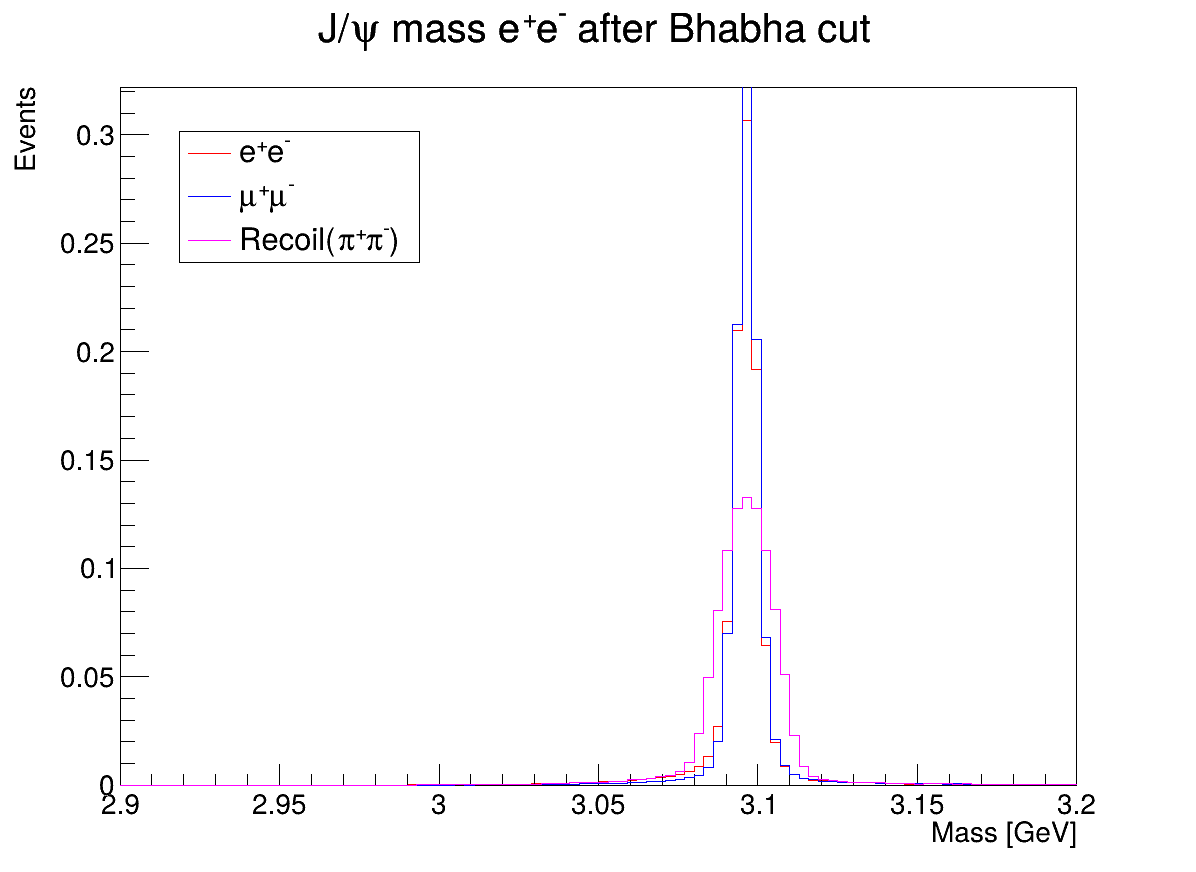
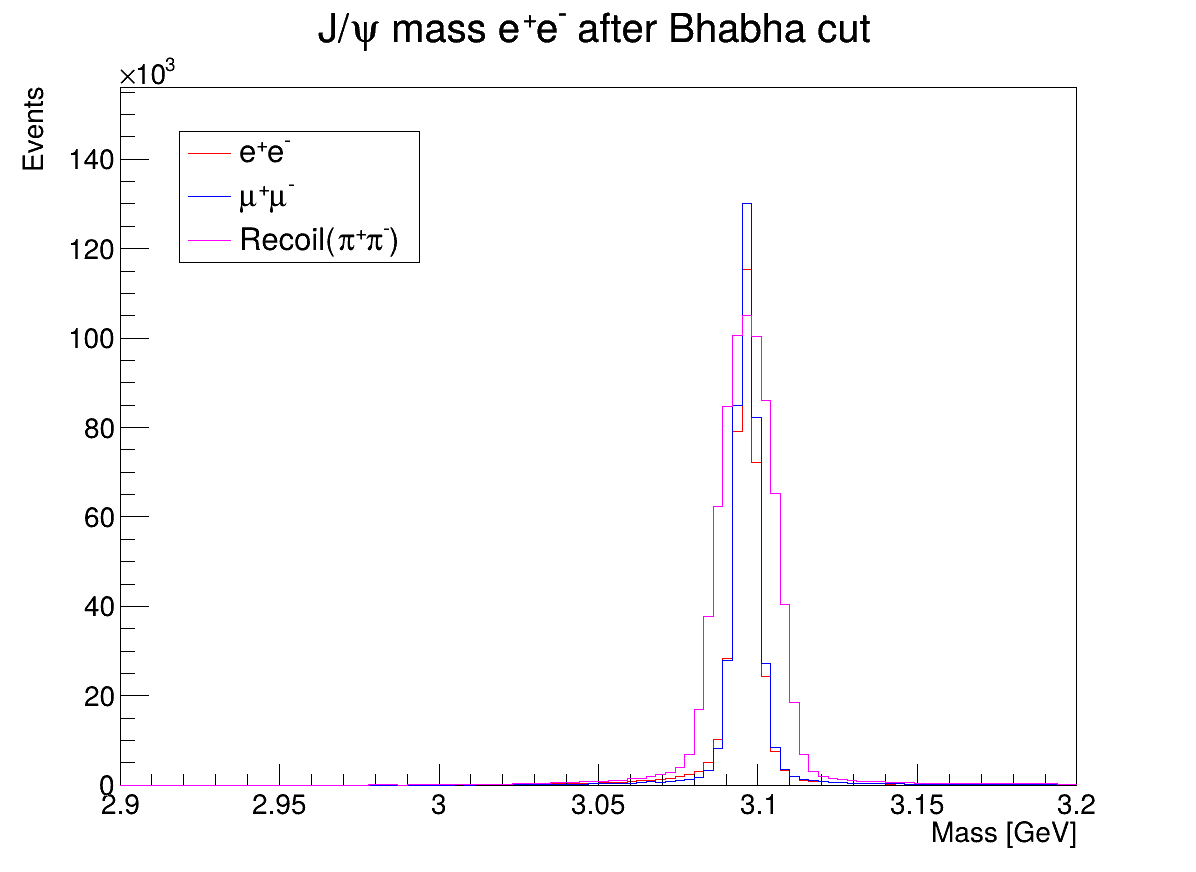
fixed the plotting issue with jpsi invariant mass having less number of pions

diff --git a/part2_KinFit/ZcAnalysis.C b/part2_KinFit/ZcAnalysis.C
@@ -371,7 +371,7 @@ if(muonEvent)
 
 P4E recoil_bhabha = pCMS - pions_temp;
 
-if (electronEvent)
+if (electronEvent || muonEvent)
     h_mJpsi_recoil_afterBhabha->Fill(recoil_bhabha.M());
 // invariant mass after bhabha cut
 h1_mJpsi_pipi_afterBhabha->Fill(total_temp.M());
@@ -399,11 +399,15 @@ P4E pions = pi_plus + pi_minus;
 P4E total = Jpsi + pions;
 // problem 4.5
 // ---- photon conversion rejection ----
+bool passConversion = true;
+
 if (electronEvent)
 {
     if (cos_epi_minus > 0.98 || cos_pie_minus > 0.98)
-        continue;
+        passConversion = false;
 }
+
+if (!passConversion) continue;
 
 // problem 4.6
 // electrons → affected by conversion cut
@@ -421,7 +425,7 @@ if(muonEvent)
 
 P4E recoil_conv = pCMS - pions;
 
-if (electronEvent)
+if (electronEvent || muonEvent)
     h_mJpsi_recoil_afterConversion->Fill(recoil_conv.M());
 // fill invariant mass after conversion cut
 h1_mJpsi_pipi_afterConversion->Fill(total.M());
@@ -458,7 +462,7 @@ if(muonEvent)
 
 P4E recoil_chi2 = pCMS - pions;
 
-if (electronEvent)
+if (electronEvent || muonEvent)
     h_mJpsi_recoil_afterChi2->Fill(recoil_chi2.M());
 selectedEvents++;   
 
@@ -520,7 +524,7 @@ std::cout << "\n=== MUONS ===" << std::endl;
 std::cout << "Initial: " << Ni_mu << std::endl;
 std::cout << "After Bhabha: " << N_bhabha_mu 
           << "  eff = " << (double)N_bhabha_mu/Ni_mu << std::endl;
-std::cout << "After Conversion: " << N_bhabha_mu 
+std::cout << "After Conversion: " << N_conv_mu
           << "  eff = " << (double)N_bhabha_mu/Ni_mu << std::endl;
 std::cout << "After Chi2: " << N_chi2_mu 
           << "  eff = " << (double)N_chi2_mu/Ni_mu << std::endl;
@@ -909,9 +913,18 @@ h_mJpsi_e_afterBhabha->SetLineColor(kRed);
 h_mJpsi_mu_afterBhabha->SetLineColor(kBlue);
 h_mJpsi_recoil_afterBhabha->SetLineColor(kMagenta);
 
-h_mJpsi_e_afterBhabha->DrawNormalized();
-h_mJpsi_mu_afterBhabha->DrawNormalized("same");
-h_mJpsi_recoil_afterBhabha->DrawNormalized("same");
+double max_e_b = h_mJpsi_e_afterBhabha->GetMaximum();
+double max_mu_b = h_mJpsi_mu_afterBhabha->GetMaximum();
+double max_recoil_b = h_mJpsi_recoil_afterBhabha->GetMaximum();
+
+double max_all_b = std::max({max_e_b, max_mu_b, max_recoil_b});
+
+// add margin
+h_mJpsi_e_afterBhabha->SetMaximum(1.2 * max_all_b);
+
+h_mJpsi_e_afterBhabha->Draw();
+h_mJpsi_mu_afterBhabha->Draw("same");
+h_mJpsi_recoil_afterBhabha->Draw("same");
 
 TLegend* leg = new TLegend(0.15,0.7,0.35,0.85);
 leg->AddEntry(h_mJpsi_e_afterBhabha,"e^{+}e^{-}","l");
@@ -929,9 +942,18 @@ h_mJpsi_e_afterConversion->SetLineColor(kRed);
 h_mJpsi_mu_afterConversion->SetLineColor(kBlue);
 h_mJpsi_recoil_afterConversion->SetLineColor(kMagenta);
 
-h_mJpsi_e_afterConversion->DrawNormalized();
-h_mJpsi_mu_afterConversion->DrawNormalized("same");
-h_mJpsi_recoil_afterConversion->DrawNormalized("same");
+double max_e_c = h_mJpsi_e_afterConversion->GetMaximum();
+double max_mu_c = h_mJpsi_mu_afterConversion->GetMaximum();
+double max_recoil_c = h_mJpsi_recoil_afterConversion->GetMaximum();
+
+double max_all_c = std::max({max_e_c, max_mu_c, max_recoil_c});
+
+// add margin
+h_mJpsi_e_afterConversion->SetMaximum(1.2 * max_all_c);
+
+h_mJpsi_e_afterConversion->Draw();
+h_mJpsi_mu_afterConversion->Draw("same");
+h_mJpsi_recoil_afterConversion->Draw("same");
 
 TLegend* leg = new TLegend(0.15,0.7,0.35,0.85);
 leg->AddEntry(h_mJpsi_e_afterConversion,"e^{+}e^{-}","l");
@@ -942,6 +964,16 @@ leg->Draw();
 canvas->SaveAs(savePath + "Jpsi_mass_afterConversion.png");
 // after chi^2 cut
 }
+std::cout << "\n=== INTEGRALS AFTER CHI2 ===" << std::endl;
+
+std::cout << "Electrons: "
+          << h_mJpsi_e_afterChi2->Integral() << std::endl;
+
+std::cout << "Muons: "
+          << h_mJpsi_mu_afterChi2->Integral() << std::endl;
+
+std::cout << "Recoil: "
+          << h_mJpsi_recoil_afterChi2->Integral() << std::endl;
 {
 
 TCanvas* canvas_chi2 = new TCanvas("canvas_chi2_mass","canvas_chi2_mass",1200,900);
@@ -954,7 +986,7 @@ h_mJpsi_recoil_afterChi2->SetLineColor(kMagenta);
 
 h_mJpsi_e_afterChi2->SetLineWidth(2);
 h_mJpsi_mu_afterChi2->SetLineWidth(2);
-h_mJpsi_recoil_afterChi2->SetLineWidth(2);
+h_mJpsi_recoil_afterChi2->SetLineWidth(3);
 
 // set y-axis title
 double binWidth = h_mJpsi_e_afterChi2->GetBinWidth(1);
@@ -963,10 +995,18 @@ Form("Events / %.3f GeV", binWidth)
 );
 
 // draw spectra
-// draw normalized 
-h_mJpsi_e_afterChi2->DrawNormalized();
-h_mJpsi_mu_afterChi2->DrawNormalized("same");
-h_mJpsi_recoil_afterChi2->DrawNormalized("same");
+double max_e = h_mJpsi_e_afterChi2->GetMaximum();
+double max_mu = h_mJpsi_mu_afterChi2->GetMaximum();
+double max_recoil = h_mJpsi_recoil_afterChi2->GetMaximum();
+
+double max_all = std::max({max_e, max_mu, max_recoil});
+
+// add some margin (20%)
+h_mJpsi_e_afterChi2->SetMaximum(1.2 * max_all);
+
+h_mJpsi_e_afterChi2->Draw();
+h_mJpsi_mu_afterChi2->Draw("same");
+h_mJpsi_recoil_afterChi2->Draw("same");
 // legend
 TLegend* leg_chi2 = new TLegend(0.15,0.70,0.35,0.85);
 leg_chi2->AddEntry(h_mJpsi_e_afterChi2,"e^{+}e^{-}","l");
